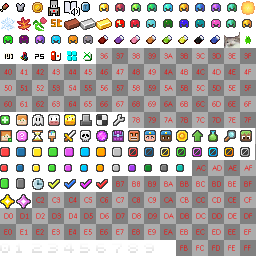
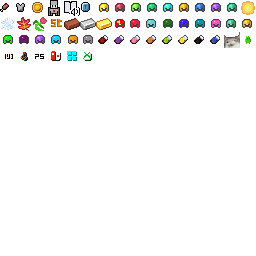
Copyright fix (Warning!!!!!!!!!!!!!!!!!!!!!!)
Benutzt am besten niemals Werke, wo ihr daran keine Rechte habt oder nicht wisst, dass ihr es benutzen dürft. Hive geht gegen sowas hier rechtlich vor!

Von die andern Icons habe ich gerade keine Ahnung, ob sie selbst gemacht wurde oder aus dem Internet stammt. Vergisst nicht, MCBE hat keine EULA wie bei Java, was automatisch ein echten Urheber gibs, die tatsächlich vorgehen können!

diff --git a/README.md b/README.md
@@ -1,2 +1,24 @@
-# StimoMC_Resource-Pack
-StimoMC Resource Pack
+<div align="center">
+    <span style="font-size: 3rem; font-style: bold;">StimoMC Resouce Pack</span>
+    <hr />
+    <img style="margin: 2.5rem 0 2.5rem 0;" width="25%" height="auto" src="pack_icon.png" />
+</div>
+
+# Table of contents
+
+<div class="table-of-contents">
+  <ol>
+    <li>
+      <a href="#Credits">Credits</a>
+    </li>
+  </ol>
+</div>
+
+## Credits
+
+This pack was only possible to make with the help of the follwing contributors
+
+| Feature    | Author                                                                                                                                                         |
+| ---------- | -------------------------------------------------------------------------------------------------------------------------------------------------------------- |
+| Bed-icons  | [Pleeder](https://github.com/PleederDGM), zQuanto                                                                                                              |
+| Scoreboard | [Tobi die Topfpflanze](https://github.com/TobidieTopfpflanze), [Angekleckert](https://github.com/Angekleckert), [RushNation](https://github.com/RushNationNET) |
